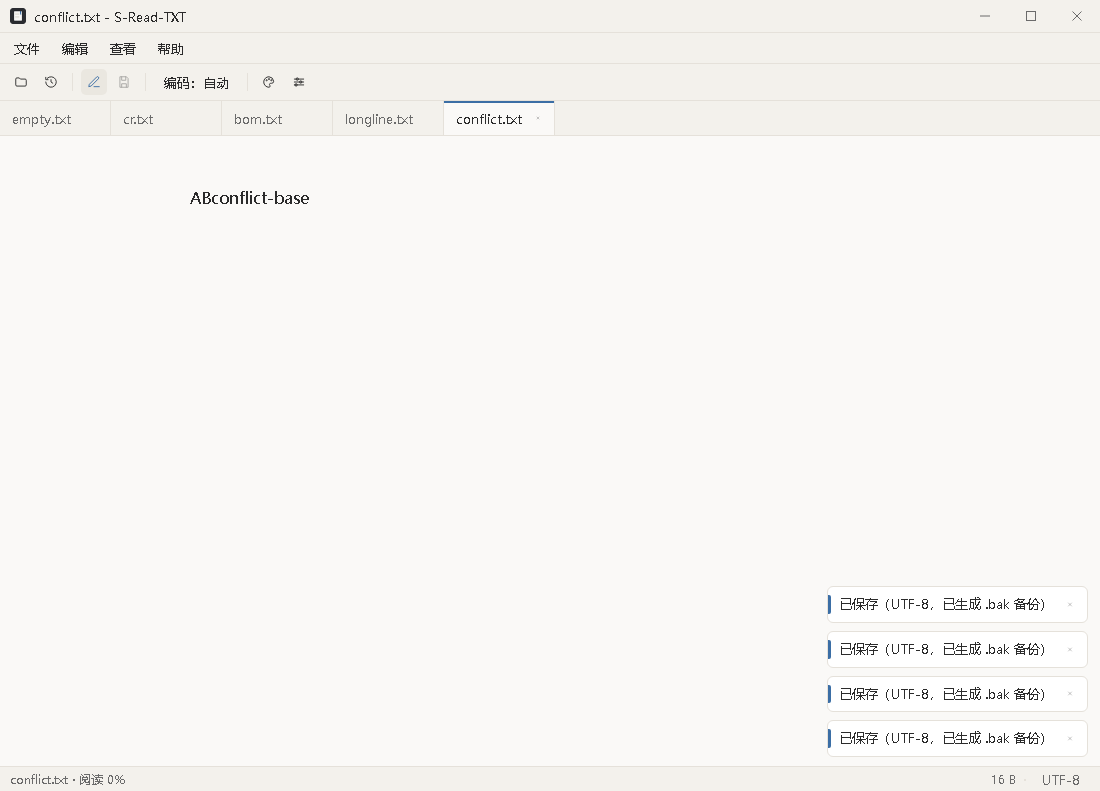
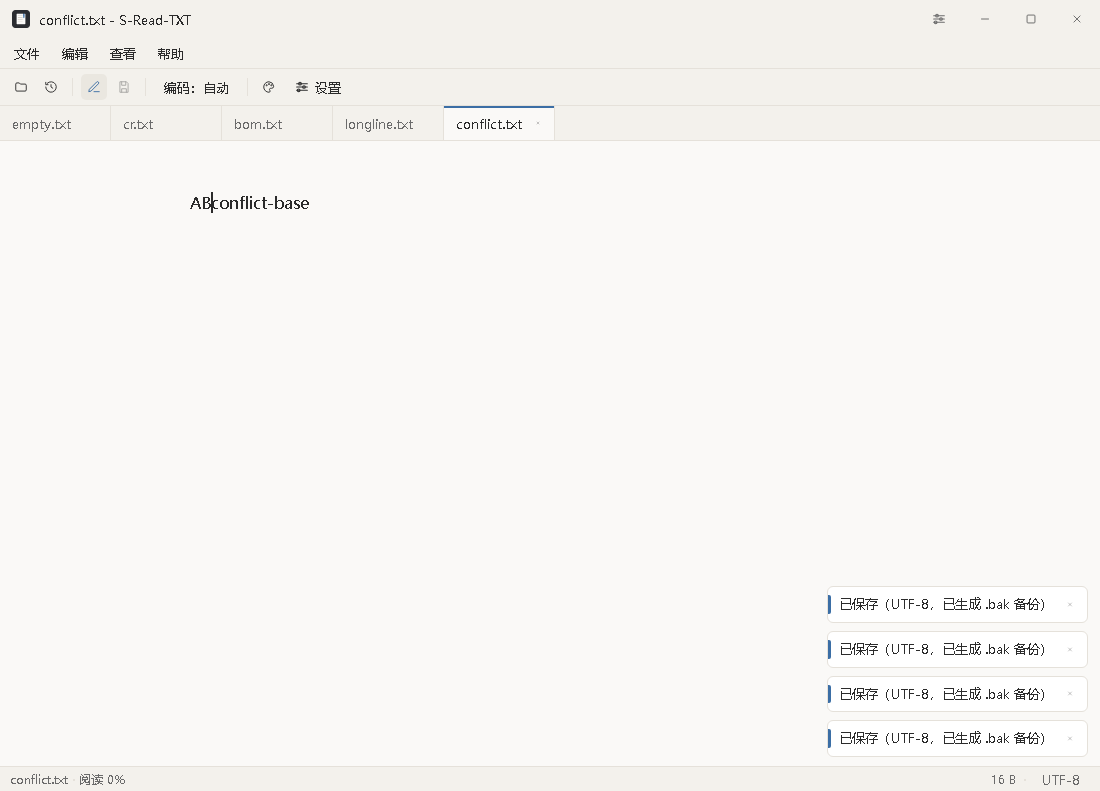
test(ai): 标题栏 T9b 关闭改为 等待就绪+bringToFront+按标签兜底关闭（链式负载下加固）
- 全量自检 22/22 通过（515.3s），报告已刷新

diff --git a/docs/verify/latest.md b/docs/verify/latest.md
@@ -1,69 +1,31 @@
 # 全量自检报告（最新一次）
 
-- 时间（UTC）：2026-10-02T15:20:45.191Z
-- 提交：f88c214（未提交变更 2 项）
-- 结果：**19/21 通过**，总耗时 544.4s
+- 时间（UTC）：2026-10-03T01:26:13.996Z
+- 提交：f3df122（未提交变更 10 项）
+- 结果：**22/22 通过**，总耗时 515.3s
 
 | 步骤 | 结果 | 耗时(s) |
 | --- | --- | --- |
 | 编码自检 | ✅ | 0.2 |
-| svelte-check | ✅ | 7.6 |
-| vitest 单测 | ✅ | 2.7 |
-| cargo fmt 检查 | ❌ | 0.7 |
-| cargo test（全目标） | ✅ | 58.0 |
-| Tauri 构建（debug） | ✅ | 77.0 |
-| E2E 编辑（smoke-edit） | ✅ | 31.9 |
-| E2E 查找（smoke-find） | ✅ | 25.2 |
-| E2E 输入法（smoke-ime） | ✅ | 11.1 |
-| E2E 多语言（smoke-i18n） | ✅ | 20.1 |
-| E2E 标题栏（smoke-titlebar） | ✅ | 11.3 |
-| E2E 全按钮（smoke-buttons） | ✅ | 47.2 |
-| E2E 设置窗口（smoke-settings） | ✅ | 40.6 |
-| E2E 快捷键（smoke-shortcuts） | ✅ | 37.2 |
-| E2E 多标签（smoke-tabs） | ❌ | 48.7 |
-| E2E 历史记录（smoke-history） | ✅ | 17.8 |
-| E2E 会话恢复（smoke-session） | ✅ | 16.7 |
-| E2E 数据目录引导（smoke-datadir） | ✅ | 9.2 |
-| E2E 卸载清理（smoke-uninstall） | ✅ | 31.9 |
-| E2E 对抗（smoke-abuse） | ✅ | 31.7 |
-| E2E 100MB 长行（smoke-longline） | ✅ | 17.5 |
-
-## 失败详情
-
-### cargo fmt 检查
-
-```
-Diff in \\?\D:\administrator\Documents\project\S-Read-TXT\src-tauri\src\commands.rs:808:
-         tauri::WebviewUrl::App("settings.html".into()),
-     )
-     .title("设置 - S-Read-TXT")
-[31m-        .inner_size(800.0, 620.0)
-[0m[32m+    .inner_size(800.0, 620.0)
-[0m     .resizable(false)
-     .maximizable(false)
-     .decorations(false)
-```
-
-### E2E 多标签（smoke-tabs）
-
-```
-node:fs:1484
-  return binding.rmSync(getValidatedPath(path), opts.maxRetries, opts.recursive, opts.retryDelay);
-                 ^
-
-Error: EPERM, Permission denied: \\?\C:\Users\Administrator\AppData\Local\Temp\srt-smoke-tabs '\\?\C:\Users\Administrator\AppData\Local\Temp\srt-smoke-tabs'
-    at rmSync (node:fs:1484:18)
-    at main (file:///D:/administrator/Documents/project/S-Read-TXT/scripts/smoke-tabs.mjs:56:3)
-    at file:///D:/administrator/Documents/project/S-Read-TXT/scripts/smoke-tabs.mjs:242:7
-    at ModuleJob.run (node:internal/modules/esm/module_job:569:25)
-    at async node:internal/modules/esm/loader:650:26
-    at async asyncRunEntryPointWithESMLoader (node:internal/modules/run_main:101:5) {
-  errno: 1,
-  code: 'EPERM',
-  path: '\\\\?\\C:\\Users\\Administrator\\AppData\\Local\\Temp\\srt-smoke-tabs',
-  syscall: 'rm'
-}
-
-Node.js v26.7.0
-```
+| svelte-check | ✅ | 7.5 |
+| vitest 单测 | ✅ | 3.0 |
+| cargo fmt 检查 | ✅ | 0.7 |
+| cargo test（全目标） | ✅ | 11.3 |
+| Tauri 构建（debug） | ✅ | 13.9 |
+| E2E 编辑（smoke-edit） | ✅ | 2.5 |
+| E2E 查找（smoke-find） | ✅ | 6.1 |
+| E2E 输入法（smoke-ime） | ✅ | 2.8 |
+| E2E 多语言（smoke-i18n） | ✅ | 7.5 |
+| E2E 标题栏（smoke-titlebar） | ✅ | 151.9 |
+| E2E 全按钮（smoke-buttons） | ✅ | 26.6 |
+| E2E 设置窗口（smoke-settings） | ✅ | 39.6 |
+| E2E 快捷键（smoke-shortcuts） | ✅ | 23.9 |
+| E2E 多标签（smoke-tabs） | ✅ | 3.4 |
+| E2E 历史记录（smoke-history） | ✅ | 5.0 |
+| E2E 会话恢复（smoke-session） | ✅ | 9.5 |
+| E2E 数据目录引导（smoke-datadir） | ✅ | 3.1 |
+| E2E 卸载清理（smoke-uninstall） | ✅ | 87.9 |
+| E2E 对抗（smoke-abuse） | ✅ | 37.8 |
+| E2E 滚动完整性（smoke-scroll） | ✅ | 48.0 |
+| E2E 100MB 长行（smoke-longline） | ✅ | 23.3 |
 
